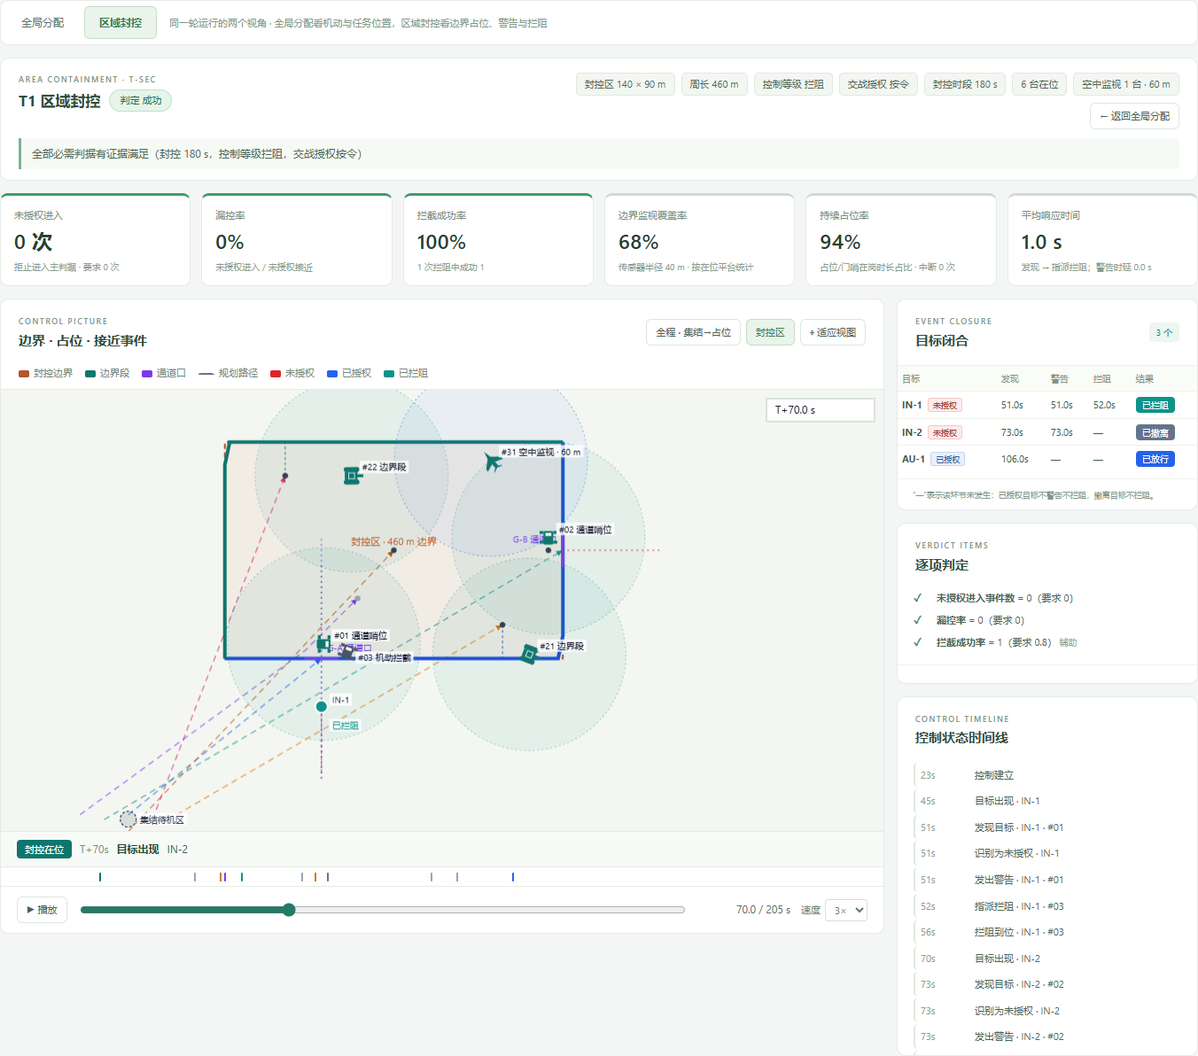
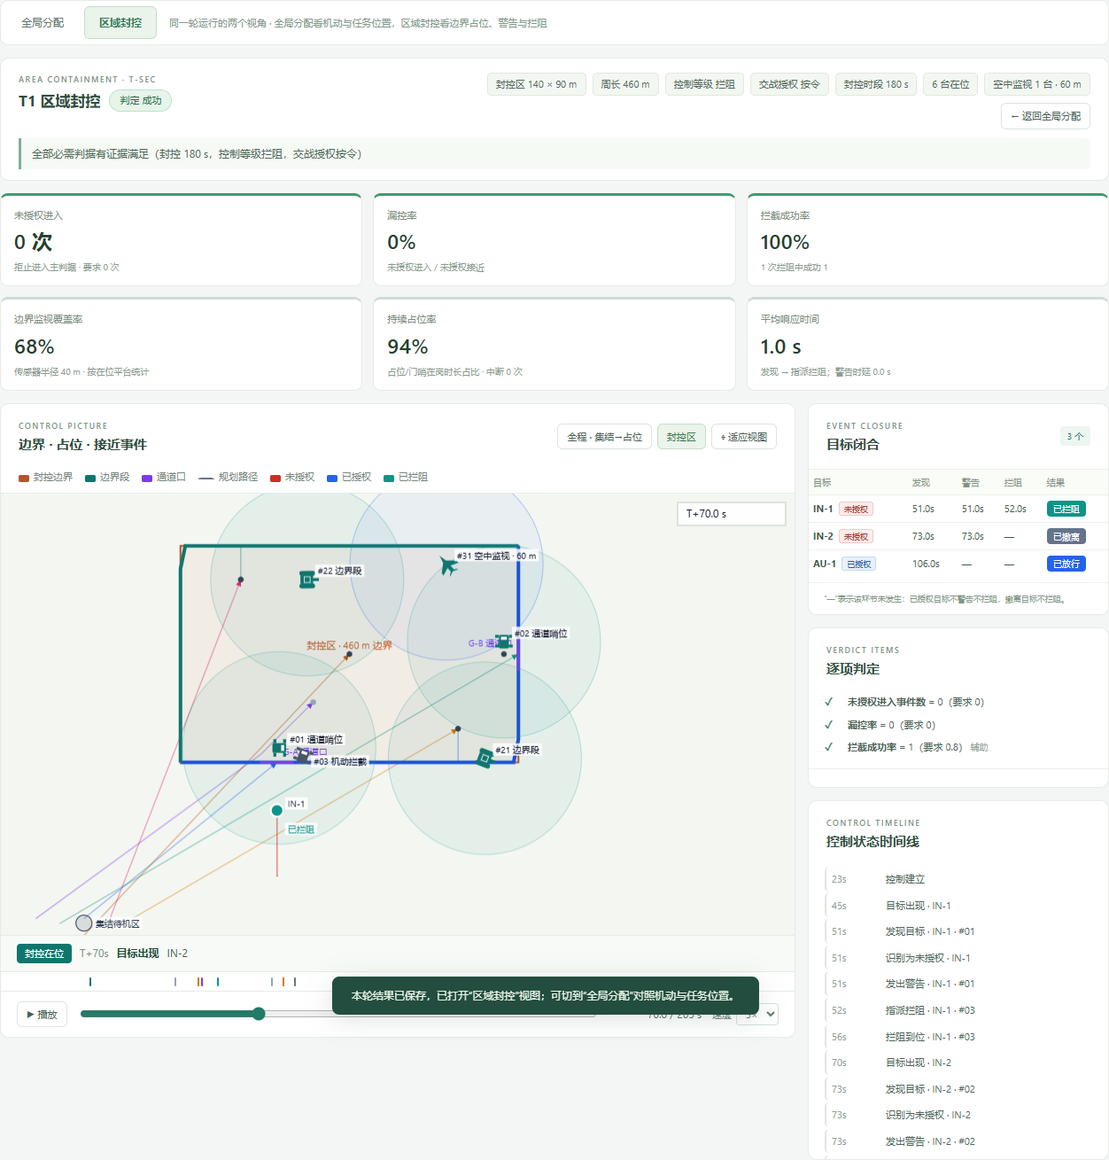
fix(workbench): simplify new-simulation scenarios and remove dashed clutter

diff --git a/planning_middle_demo/workbench/index.html b/planning_middle_demo/workbench/index.html
@@ -1,4 +1,4 @@
-<!doctype html>
+<!doctype html>
 <html lang="zh-CN">
 <head><meta charset="utf-8"><meta name="viewport" content="width=device-width,initial-scale=1"><title>MARL · 规划演示工作台</title><link rel="icon" href="/favicon.svg"><link rel="stylesheet" href="/styles.css"><script src="/task_details.js" defer></script><script src="/containment.js" defer></script><script src="/app.js" defer></script></head>
 <body>
@@ -44,7 +44,7 @@
   <footer><span>MARL / 任务规划中间层</span><span>本地逐步运动模拟 ≠ 物理执行验证 · 工作量达标 ≠ 五类任务行为验收</span><span>自有数据 · 可追溯结果</span></footer>
 </main>
 <dialog id="task-theater" aria-labelledby="theater-title"><div class="theater-header"><div><div class="eyebrow">TASK EXECUTION REPLAY</div><h2 id="theater-title">任务执行</h2></div><div class="theater-actions"><select id="theater-task" aria-label="切换观看任务"></select><button class="button" id="task-restart">从任务下发看起</button><button class="button primary" id="action-start">从执行开始</button><button class="button" id="close-theater">返回总览 ×</button></div></div><div class="theater-layout"><div id="theater-main"></div><aside class="theater-aside"><section><div class="eyebrow">CURRENT DETAILS</div><h3>执行细节</h3><div id="theater-details"></div></section><section id="workbench-hold-card" hidden><div class="eyebrow">HANDOVER RECORD</div><h3>谁在岗 · 谁接班</h3><div id="workbench-hold-status"></div></section><section id="workbench-route-card"><div class="eyebrow">PATH EVIDENCE</div><h3>当前路径 · 避障证据</h3><div id="workbench-route-status"></div></section><section id="workbench-team-card"><div class="eyebrow">TEAM FEEDBACK</div><h3>参与成员</h3><div id="theater-members"></div></section><section><div class="eyebrow">RECORDED EVENTS</div><h3>任务事件 <span id="theater-event-count"></span></h3><div id="theater-events"></div></section></aside></div></dialog>
-<dialog id="config-dialog"><form id="config-form"><div class="dialog-heading"><div><div class="eyebrow">NEW SIMULATION</div><h2>新建一次规划演示</h2><p>调用项目现有规划器，结果写入独立目录。</p></div><button class="icon-button" type="button" id="close-config" aria-label="关闭">×</button></div><label class="field">场景<select name="scenario" id="config-scenario"><option value="interop_neutral" selected>融合版中性任务 · 统一接口样例</option><option value="interop_asl">融合版机动突击 · 4.1 样例（T-ASL）</option><option value="interop_containment">区域封控 · T-SEC（4.1 边界控制演示）</option><option value="asl_city">城市十字路口机动突击 · asl_city.json（历史场景）</option></select></label><label class="field" id="config-effect-field">突击效果类型<select name="effect_kind" id="config-effect"><option value="damage" selected>毁伤 · 等级不低于规定值</option><option value="suppress">压制 · 连续压制规定时长</option><option value="seize">夺占 · 控制权保持规定时长</option></select></label><p class="form-note" id="config-scope-note"></p><div class="field"><span>演示模式</span><div class="mode-grid"><label><input type="radio" name="mode" value="normal" checked><span><b>正常执行</b><small>完整规划与反馈闭环</small></span></label><label><input type="radio" name="mode" value="failure"><span><b>失败重试</b><small>作业失败后重新分配</small></span></label><label><input type="radio" name="mode" value="timeout"><span><b>超时恢复</b><small>取消确认后再尝试</small></span></label><label><input type="radio" name="mode" value="kill"><span><b>成员失联</b><small>查看成员变化的后果</small></span></label><label><input type="radio" name="mode" value="deviation"><span><b>进度偏差</b><small>观察偏差触发的更新</small></span></label></div></div><div class="form-grid"><label class="field">优化目标<select name="objective"><option value="makespan">完工时间</option><option value="energy">模型能耗</option><option value="dispersion">空间分散度</option></select></label></div><div class="form-grid"><label class="field">仿真上限 / 步<input name="max_ticks" type="number" min="10" max="700" value="620" required></label><label class="checkbox-field"><input name="avoid" id="config-avoid" type="checkbox" checked>城市场景建筑绕障</label><label class="checkbox-field"><input name="behavior" id="config-behavior" type="checkbox" checked>到位后行为（巡逻/封控/侦察/突击/坚守）</label></div><p class="form-note">异常按原脚本预设注入。能否完成由实际运行决定；成员失联等情形可能保留未完成任务。</p><div class="form-error" id="config-error" role="alert" hidden></div><div class="dialog-footer"><span>Python 标准库 · 本机执行</span><button type="submit" class="button primary" id="submit-run">运行演示 →</button></div></form></dialog>
+<dialog id="config-dialog"><form id="config-form"><div class="dialog-heading"><div><div class="eyebrow">NEW SIMULATION</div><h2>新建一次规划演示</h2><p>调用项目现有规划器，结果写入独立目录。</p></div><button class="icon-button" type="button" id="close-config" aria-label="关闭">×</button></div><label class="field">场景<select name="scenario" id="config-scenario"><optgroup label="融合版 · 4.1 统一接口"><option value="interop_containment" selected>区域封控演示（T-SEC）</option><option value="interop_neutral">五类任务样例（中性四类，到点作业）</option><option value="interop_asl">机动突击样例（T-ASL，含效果判定）</option></optgroup><optgroup label="历史场景"><option value="asl_city">城市十字路口机动突击（asl_city）</option></optgroup></select></label><label class="field" id="config-effect-field">突击效果类型<select name="effect_kind" id="config-effect"><option value="damage" selected>毁伤 · 等级不低于规定值</option><option value="suppress">压制 · 连续压制规定时长</option><option value="seize">夺占 · 控制权保持规定时长</option></select></label><p class="form-note" id="config-scope-note"></p><div class="field"><span>演示模式</span><div class="mode-grid"><label><input type="radio" name="mode" value="normal" checked><span><b>正常执行</b><small>完整规划与反馈闭环</small></span></label><label><input type="radio" name="mode" value="failure"><span><b>失败重试</b><small>作业失败后重新分配</small></span></label><label><input type="radio" name="mode" value="timeout"><span><b>超时恢复</b><small>取消确认后再尝试</small></span></label><label><input type="radio" name="mode" value="kill"><span><b>成员失联</b><small>查看成员变化的后果</small></span></label><label><input type="radio" name="mode" value="deviation"><span><b>进度偏差</b><small>观察偏差触发的更新</small></span></label></div></div><div class="form-grid"><label class="field">优化目标<select name="objective"><option value="makespan">完工时间</option><option value="energy">模型能耗</option><option value="dispersion">空间分散度</option></select></label></div><div class="form-grid"><label class="field">仿真上限 / 步<input name="max_ticks" type="number" min="10" max="700" value="620" required></label><label class="checkbox-field"><input name="avoid" id="config-avoid" type="checkbox" checked>城市场景建筑绕障</label><label class="checkbox-field"><input name="behavior" id="config-behavior" type="checkbox" checked>到位后行为（巡逻/封控/侦察/突击/坚守）</label></div><p class="form-note">异常按原脚本预设注入。能否完成由实际运行决定；成员失联等情形可能保留未完成任务。</p><div class="form-error" id="config-error" role="alert" hidden></div><div class="dialog-footer"><span>Python 标准库 · 本机执行</span><button type="submit" class="button primary" id="submit-run">运行演示 →</button></div></form></dialog>
 <dialog id="source-dialog"><div class="dialog-heading"><h2 id="source-title">项目文件</h2><button class="icon-button" id="close-source" aria-label="关闭">×</button></div><pre id="source-text"></pre></dialog>
 <div id="toast" class="toast" role="status" hidden></div><div id="busy-banner" class="busy-banner" hidden><span class="spinner"></span><span>规划器正在运行，正在生成本轮轨迹和报告…</span></div>
 </body></html>

diff --git a/planning_middle_demo/workbench/containment.js b/planning_middle_demo/workbench/containment.js
@@ -265,7 +265,7 @@
             '<span><i style="background:' + COLORS.area + '"></i>封控边界</span>' +
             '<span><i style="background:' + COLORS.sector + '"></i>边界段</span>' +
             '<span><i style="background:' + COLORS.gate + '"></i>通道口</span>' +
-            '<span><i class="dash" style="border-color:#64748b"></i>规划路径</span>' +
+            '<span><i style="background:#64748b;height:2px"></i>规划路径</span>' +
             '<span><i style="background:' + COLORS.unauthorized + '"></i>未授权</span>' +
             '<span><i style="background:' + COLORS.passed + '"></i>已授权</span>' +
             '<span><i style="background:' + COLORS.held + '"></i>已拦阻</span>' +
@@ -625,13 +625,11 @@
         const w = workerOf(route);
         const color = (w && w.color) || '#64748b';
         poly(path, false);
-        ctx.setLineDash([7, 5]);
         ctx.strokeStyle = color;
-        ctx.globalAlpha = 0.55;
-        ctx.lineWidth = 1.6;
+        ctx.globalAlpha = 0.4;
+        ctx.lineWidth = 1.4;
         ctx.stroke();
         ctx.globalAlpha = 1;
-        ctx.setLineDash([]);
         // 终点箭头：标清"规划去哪个占位点"
         const a = P(path[path.length - 2]), b = P(path[path.length - 1]);
         const ang = Math.atan2(b[1] - a[1], b[0] - a[0]);
@@ -653,10 +651,8 @@
         ctx.fillStyle = 'rgba(71,85,105,0.16)';
         ctx.fill();
         ctx.strokeStyle = '#475569';
-        ctx.setLineDash([3, 2]);
-        ctx.lineWidth = 1.4;
+        ctx.lineWidth = 1.2;
         ctx.stroke();
-        ctx.setLineDash([]);
         ctx.fillStyle = '#334155';
         ctx.font = '11px "Segoe UI","Microsoft YaHei"';
         placeLabel('集结待机区', c[0] + 12, c[1] + 4, '#334155');
@@ -668,11 +664,9 @@
       poly(st.area);
       ctx.fillStyle = 'rgba(194,65,12,0.06)';
       ctx.fill();
-      ctx.setLineDash([6, 4]);
       ctx.strokeStyle = COLORS.area;
       ctx.lineWidth = 2;
       ctx.stroke();
-      ctx.setLineDash([]);
       const c = P(st.center || st.area[0]);
       ctx.fillStyle = 'rgba(194,65,12,0.85)';
       ctx.font = '11px "Segoe UI","Microsoft YaHei"';
@@ -692,11 +686,9 @@
       const post = (st.post_plan || []).find((p) => p.pid === sector.pid);
       if (post) {
         const a = P(post.point), b = P(post.mid || post.point);
-        ctx.setLineDash([3, 3]);
-        ctx.strokeStyle = color;
+        ctx.strokeStyle = color + '88';
         ctx.lineWidth = 1;
         ctx.beginPath(); ctx.moveTo(...a); ctx.lineTo(...b); ctx.stroke();
-        ctx.setLineDash([]);
       }
     });
 
@@ -738,11 +730,9 @@
           ? 'rgba(37,99,235,0.06)' : 'rgba(13,148,136,0.07)';
         ctx.fill();
         ctx.strokeStyle = roleKind === 'air'
-          ? 'rgba(37,99,235,0.45)' : 'rgba(13,148,136,0.35)';
-        ctx.setLineDash([2, 3]);
+          ? 'rgba(37,99,235,0.32)' : 'rgba(13,148,136,0.26)';
         ctx.lineWidth = 1;
         ctx.stroke();
-        ctx.setLineDash([]);
       }
       const q = P(post.point);
       ctx.beginPath();
@@ -751,26 +741,18 @@
       ctx.fill();
     });
 
-    // 目标轨迹与当前位姿
+    // 目标轨迹与当前位姿（不画虚线，也不从起点到目标拉长线，避免整屏斜线）
     const events = (C.data.events || []);
     for (const tgt of (result().targets || [])) {
       const track = (tgt.track || []).filter((p) => p[0] <= t);
       if (track.length > 1) {
         poly(track.map((p) => [p[1], p[2]]), false);
-        ctx.setLineDash([4, 3]);
         ctx.strokeStyle = tgt.authorized ? COLORS.passed : COLORS.unauthorized;
-        ctx.globalAlpha = 0.55;
+        ctx.globalAlpha = 0.5;
         ctx.lineWidth = 1.6;
         ctx.stroke();
         ctx.globalAlpha = 1;
-        ctx.setLineDash([]);
       }
-      // 起点与目标点
-      const s = P(tgt.start), g = P(tgt.goal);
-      ctx.strokeStyle = tgt.authorized ? 'rgba(37,99,235,0.5)' : 'rgba(220,38,38,0.5)';
-      ctx.setLineDash([2, 4]);
-      ctx.beginPath(); ctx.moveTo(...s); ctx.lineTo(...g); ctx.stroke();
-      ctx.setLineDash([]);
       if (t < (tgt.track?.[0]?.[0] ?? 0)) continue;
       const pos = targetAt(tgt, t);
       const q = P(pos);
@@ -812,9 +794,7 @@
       const p1 = P([a.x, a.y]), p2 = P(targetAt(tgt, t));
       ctx.strokeStyle = 'rgba(124,58,237,0.85)';
       ctx.lineWidth = 2;
-      ctx.setLineDash([5, 3]);
       ctx.beginPath(); ctx.moveTo(...p1); ctx.lineTo(...p2); ctx.stroke();
-      ctx.setLineDash([]);
       const mid = [(p1[0] + p2[0]) / 2, (p1[1] + p2[1]) / 2];
       ctx.fillStyle = '#7c3aed';
       ctx.font = '10px "Segoe UI","Microsoft YaHei"';

diff --git a/planning_middle_demo/outputs/workbench_20261102_111027_614168/trajectory.html b/planning_middle_demo/outputs/workbench_20261102_111027_614168/trajectory.html
@@ -2,7 +2,7 @@
 <html lang="zh-CN">
 <head>
 <meta charset="utf-8"><meta name="viewport" content="width=device-width,initial-scale=1">
-<title>运动回放 · workbench_20261031_165629_326525</title>
+<title>运动回放 · workbench_20261102_111027_614168</title>
 <style>
 :root{color-scheme:light;--ink:#172b3f;--muted:#64748b;--line:#dce5ee;--blue:#2563eb}
 *{box-sizing:border-box}body{margin:0;background:#f0f4f8;color:var(--ink);font:14px/1.5 system-ui,"Microsoft YaHei",sans-serif}
@@ -30,7 +30,7 @@ svg text{paint-order:stroke;stroke:#f9fbfd;stroke-width:4px;stroke-linejoin:roun
 </style>
 </head>
 <body><main>
-<header><div><h1>平台运动回放</h1><p class="muted">沿时间轴查看位置、行进方向与作业切换；点击平台可追踪单台。</p><div class="run">workbench_20261031_165629_326525</div></div><div><span class="badge" id="motion-label"></span> <a href="report.html">查看运行报告 ↗</a></div></header>
+<header><div><h1>平台运动回放</h1><p class="muted">沿时间轴查看位置、行进方向与作业切换；点击平台可追踪单台。</p><div class="run">workbench_20261102_111027_614168</div></div><div><span class="badge" id="motion-label"></span> <a href="report.html">查看运行报告 ↗</a></div></header>
 <div class="model-note" id="model-note">记录范围：虚线结构为五类到位行为（巡逻环/封控岗/侦察区/突击点/坚守岗），由行为状态机驱动；本页按原日志回放。</div>
 <section class="panel controls" aria-label="播放控制">
 <div class="toolbar"><button id="play" class="primary">▶ 播放</button><button id="restart" title="回到起点并播放">↺ 重播</button><button id="prev" aria-label="上一步">−1 步</button><button id="next" aria-label="下一步">+1 步</button>

diff --git a/planning_middle_demo/workbench/app.js b/planning_middle_demo/workbench/app.js
@@ -787,7 +787,7 @@ document.addEventListener('keydown',e=>{if(!state.run||document.querySelector('d
 new ResizeObserver(draw).observe(canvas);
 let last=performance.now(),lastRender=0;
 function animate(now){const dt=Math.min((now-last)/1000,.1);last=now;if(state.playing&&state.run){state.t=Math.min(state.taskWindow?.end??state.run.replay.end,state.t+dt*state.speed);draw();if(now-lastRender>110){renderTime();lastRender=now;}if(state.t>=(state.taskWindow?.end??state.run.replay.end)){setPlaying(false);renderTime();}}requestAnimationFrame(animate);}
-requestAnimationFrame(animate);renderFiles();refreshCatalog().then(()=>{if(new URLSearchParams(location.search).get('new')==='interop'){$('#config-scenario').value='interop_neutral';openConfig();}}).catch(e=>{$('#connection-text').textContent='连接失败';toast('无法连接本地服务：'+e.message);});
+requestAnimationFrame(animate);renderFiles();refreshCatalog().then(()=>{if(new URLSearchParams(location.search).get('new')==='interop'){$('#config-scenario').value='interop_containment';openConfig();}}).catch(e=>{$('#connection-text').textContent='连接失败';toast('无法连接本地服务：'+e.message);});
 
 // Map navigation uses world coordinates; icon sizes remain readable in screen pixels.
 function drawPlatformIcon(c,kind,x,y,r,yaw,color){

diff --git a/planning_middle_demo/workbench_server.py b/planning_middle_demo/workbench_server.py
@@ -21,10 +21,9 @@ STATIC = ROOT / 'workbench'
 OUTPUTS = ROOT / 'outputs'
 SCENARIOS = {'simple_city': '城市道路场景', 'fleet_demo': '基础编成场景',
              'asl_city': '城市十字路口机动突击',
-             'interop_neutral': '融合版中性任务（4.1 统一接口）',
-             'interop_neutral': '融合版中性任务（4.1 统一接口）',
-             'interop_containment': '区域封控 · T-SEC（4.1 边界控制）',
-             'interop_asl': '融合版机动突击（4.1 样例）'}
+             'interop_neutral': '融合版五类任务样例（4.1 统一接口）',
+             'interop_containment': '区域封控演示（T-SEC）',
+             'interop_asl': '融合版机动突击样例（T-ASL）'}
 # 融合统一层覆盖五类任务：中性四类 + T-ASL（打击/判定仍由基座行为层执行）。
 INTEROP_SCENARIOS = {'interop_neutral', 'interop_containment', 'interop_asl'}
 # 4.1 原生场景：工作台直接读消息+编成表，规划走 interop，运行时用派生 v2 视图。

diff --git a/docs/区域封控任务_20261031.md b/docs/区域封控任务_20261031.md
@@ -21,11 +21,17 @@ python -m interop.cli demo `
   --out ..\outputs\interop_demo\containment_run --motion real --behavior --max-ticks 320
 ```
 
-工作台：双击 `启动工作台.cmd` → “新建演示” → 场景选 **区域封控 · T-SEC**。
+工作台：双击 `启动工作台.cmd` → “新建演示”。场景已按两组收拢，**默认选中
+“区域封控演示（T-SEC）”**：
+
+- 融合版 · 4.1 统一接口：区域封控演示 / 五类任务样例（中性四类，到点作业）/
+  机动突击样例（T-ASL，含效果判定）
+- 历史场景：城市十字路口机动突击（asl_city）
+
 “演示总览”顶部有两个页签：**全局分配** 与 **区域封控**（同一轮运行、同一时间轴，
-切换时时刻互相同步）。只含一个封控作业的运行默认打开“区域封控”页签；“全局分配”
-页签也按“封控区 + 集结地”取景，并画出**每台平台的探测半径（虚线圆）**，控制建立
-后区域压实显示。也可 `/?page=containment&source=<run_id>` 直达。
+切换时时刻互相同步）。只含一个封控作业的运行默认打开“区域封控”页签；两个页签
+都不用虚线：封控区实线边框、**每台平台的探测半径细实线圆**、规划路径细实线，
+控制建立后区域压实显示。也可 `/?page=containment&source=<run_id>` 直达。
 
 ## 1.1 场景链路（集结 → 规划 → 到位 → 封控）
 
@@ -135,14 +141,13 @@ python -m interop.cli demo `
 - `python -m interop.cli demo ... --out ..\outputs\interop_demo\containment_run18`
   → `verdict=succeeded`，未授权进入 0，漏控率 0，拦截 1/1，覆盖率 0.68，
   占位率 0.94，平均响应 1.0 s，控制建立 23 s，结束 203 s；空中监视 1 台 · 60 m。
-- 工作台端到端：新建演示（默认场景仍是融合版中性任务）→ 选区域封控 → 运行完
+- 工作台端到端：新建演示默认就是“区域封控演示（T-SEC）”→ 直接运行 →
   落在"演示总览 / 区域封控"页签，全程镜头先看集结与规划路径，控制建立后自动
   收紧到封控区；切到"全局分配"页签时时刻同步（运行记录
-  `workbench_20261031_165629_326525`）。6 项 KPI、3 条目标闭合、16 条控制时间线
+  `workbench_20261102_111027_614168`）。6 项 KPI、3 条目标闭合、16 条控制时间线
   均来自记录，无脚本异常。
 - 测试：`python -m unittest tests.test_containment -v` 21 项通过；
-  全量 `unittest discover` 193 项，除并行会话的 T-ASL 用例
-  `test_rejects_asl`（对方正在改成“接受”用例）外无失败。
+  全量 `unittest discover` 198 项全部通过（合并 T-ASL 后原拒绝用例已改为接受）。
 
 截图与结果记录：[outputs/区域封控_20261031](../outputs/区域封控_20261031/README.md)。
 

diff --git a/outputs/区域封控_20261031/README.md b/outputs/区域封控_20261031/README.md
@@ -23,8 +23,11 @@
 - **在岗巡视**：占位组沿自己负责的边界段来回巡视（限速 2 m/s），门哨在通道口
   横向游走，机动组在待机点小圈待机。
 - **工作台**：“演示总览”顶部两个页签（全局分配 / 区域封控，同一时间轴）。
-  “全局分配”也按“封控区 + 集结地”取景，画**实线**探测圈（不再用虚线圈叠成一片），
-  并对目标标当前状态、画出拦阻连线。
+  两个视角都已去掉虚线：封控区实线边框、探测圈细实线、规划路径细实线，
+  “全局分配”按“封控区 + 集结地”取景并对目标标当前状态、画拦阻连线；
+  区域封控页签保留完整控制画面（指标、目标闭合、时间线）。
+- **新建演示**：场景按“融合版（区域封控 / 五类任务 / 机动突击）+ 历史场景”分组，
+  默认选中**区域封控演示**。
 
 ## 验证结果（本地仿真）
 
@@ -39,7 +42,7 @@ python -m interop.cli demo `
   --motion real --behavior --max-ticks 340
 ```
 
-工作台运行 `workbench_20261031_165629_326525`（界面口径）：
+工作台运行 `workbench_20261102_111027_614168`（界面口径）：
 
 | 指标 | 值 |
 | --- | --- |
@@ -53,13 +56,15 @@ python -m interop.cli demo `
 | 持续占位率 | 0.94 |
 | 平均响应时间（发现→指派拦阻） | 1.0 s |
 
-测试：`python -m unittest tests.test_containment` 21/21 通过；全量 193 项中除
-并行会话正在改写的 T-ASL 用例 `test_rejects_asl` 外无失败。
+测试：`python -m unittest tests.test_containment` 21/21 通过；全量 198 项全部通过
+（合并 T-ASL 后原 `test_rejects_asl` 已改为接受用例）。
 
 ## 截图
 
 - [总览 · 全局分配页签（T+54 s 拦阻中）](总览_全局分配页签.png)
-- [总览 · 区域封控页签（T+70 s）](总览_区域封控页签.png)
+- [总览 · 区域封控页签（T+70 s，已去虚线）](总览_区域封控页签.png)
+- [区域封控 · 机动途中（T+9 s，规划路径/探测圈均为实线）](区域封控_机动途中.png)
+- [区域封控 · 封控在位（T+70 s）](区域封控_封控在位.png)
 - [总览 · 封控区近景（T+120 s）](总览_封控区近景.png)
 - [没有封控记录时的说明条](总览_缺封控数据说明.png)
 

diff --git a/planning_middle_demo/outputs/README.md b/planning_middle_demo/outputs/README.md
@@ -4,7 +4,7 @@
 
 | 目录 | 保留理由 |
 | --- | --- |
-| [workbench_20261031_165629_326525](workbench_20261031_165629_326525/trajectory.html) | 区域封控（T-SEC）完整记录：集结→规划路径→占位→在岗巡视→警告/拦阻/放行→判定，含 1 架空中监视（60 m）；工作台"区域封控"页签的数据来源 |
+| [workbench_20261102_111027_614168](workbench_20261102_111027_614168/trajectory.html) | 区域封控（T-SEC）完整记录（合并后版本）：集结→规划路径→占位→在岗巡视→警告/拦阻/放行→判定，含 1 架空中监视（60 m）；工作台"区域封控"页签的数据来源 |
 | [workbench_20261031_133959_331450](workbench_20261031_133959_331450/trajectory.html) | 融合版中性任务完整记录 |
 | [workbench_20261030_210424_645030](workbench_20261030_210424_645030/trajectory.html) | 融合版代码讲解所引用的运行 |
 | [workbench_20261031_133851_453017](workbench_20261031_133851_453017/trajectory.html) | 最近历史基座兼容记录 |

diff --git a/planning_middle_demo/outputs/workbench_20261102_111027_614168/report.md b/planning_middle_demo/outputs/workbench_20261102_111027_614168/report.md
@@ -1,7 +1,7 @@
 # 4.2 计划报告（interop 统一层）
 
 - 计划编号：`PLAN-INTEROP-SEC`；计划版本：1；后端：`unified`
-- 生成时间：2026-10-31T16:56:47.787+08:00
+- 生成时间：2026-11-02T11:10:45.993+08:00
 - 目标：`timeliness`；权重 time/risk/energy = 1.00 / 0.00 / 0.00
 - 结果口径：`PLAN_ONLY` / `NO_EXECUTION_EVIDENCE`（计划层默认口径，不是外部执行确认）
 - 来源消息：`MSG-INTEROP-SEC-001`，下发时刻 2026-10-30T08:00:00Z，来源 UPPER，schema 0.3
@@ -17,7 +17,7 @@
 | 未分配 | 0 |
 | makespan | 208.235 s |
 | 冲突 | 0（已解决 0） |
-| 规划耗时 | 83.098 ms |
+| 规划耗时 | 83.748 ms |
 | 总能耗（模型值） | 355.331 |
 | 总风险（模型值） | 4.945 |
 
